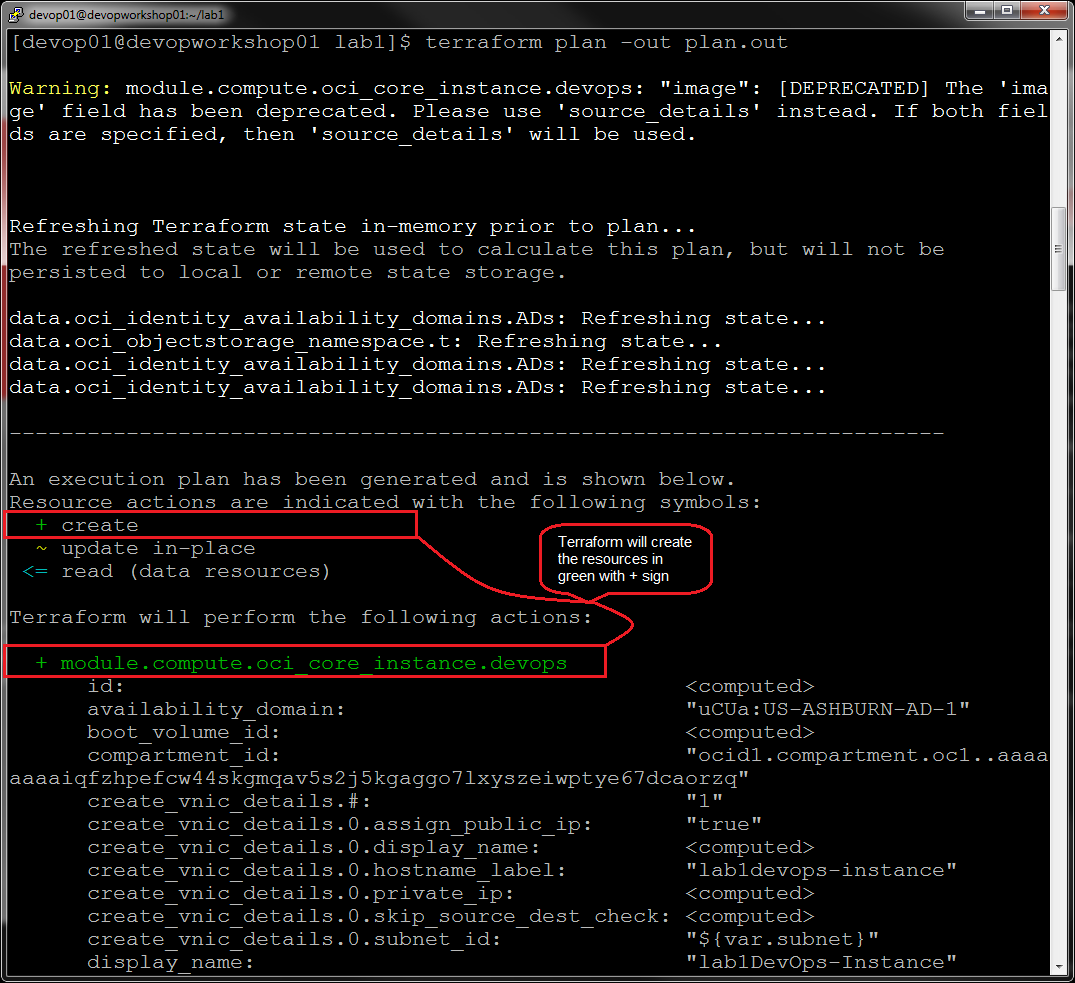
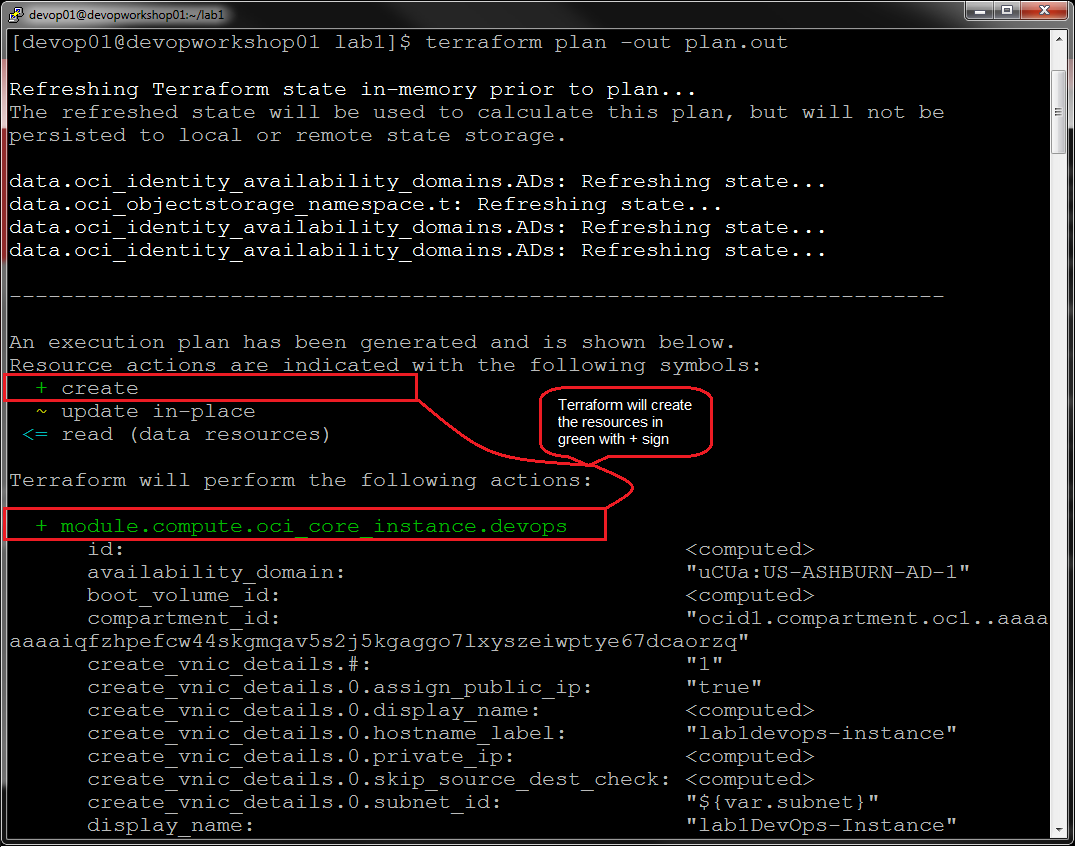
modified screen shots for lab1

Changed region(s): [[0.0, 0.0, 1.0, 1.0], [0.9209, 0.7674, 0.9823, 0.7981]]

diff --git a/workshops/environment-automation/LabGuide101.md b/workshops/environment-automation/LabGuide101.md
@@ -208,10 +208,6 @@ $ terraform plan -out plan.out
   
   ![](images/101/42.png)
   
-  ![](images/101/43.png)
-  
-  ![](images/101/43ab.png)
-  
 - Terraform is now running.  **YOU HAVE SUCCESSFULLY COMPLETED LAB1**.  This may take several hours to complete.  DO NOT WAIT FOR this to complete.  We will continue to Lab2. 
 
 - You can login to OCI Console to see that VCN and all the network resource and a compute instance has already been created.  Other resources such as OCI DB System, JCS and SOACS are still being provisioned.  When terraform completes, you will see the following.  Please do not wait for this to complete.
